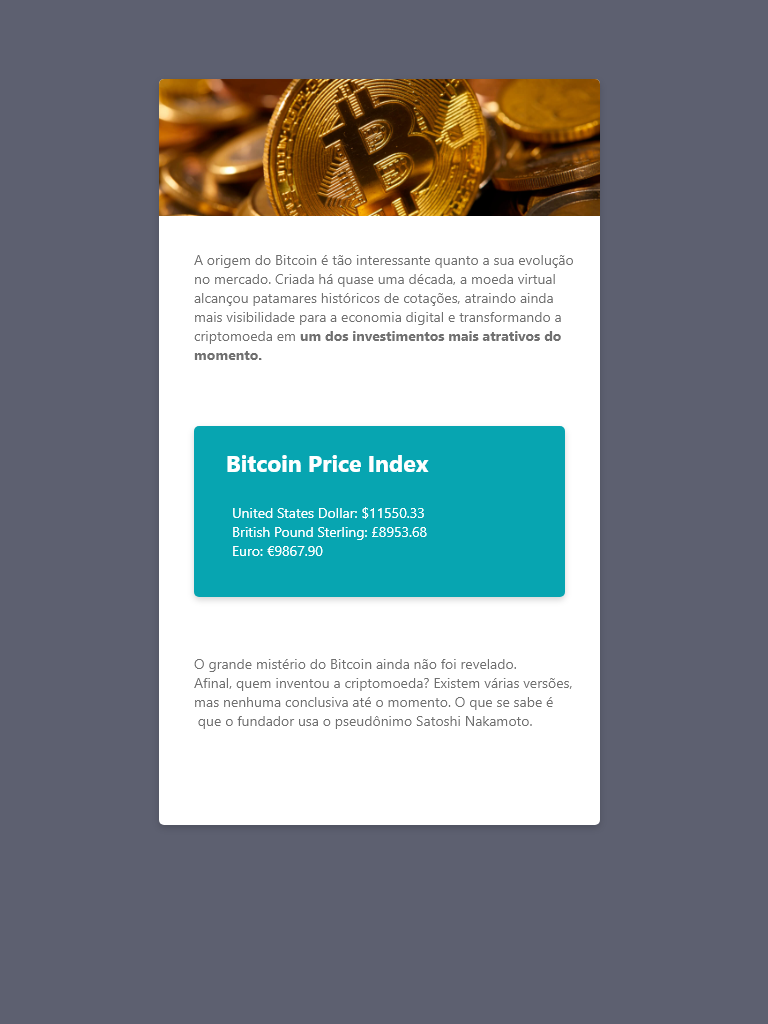
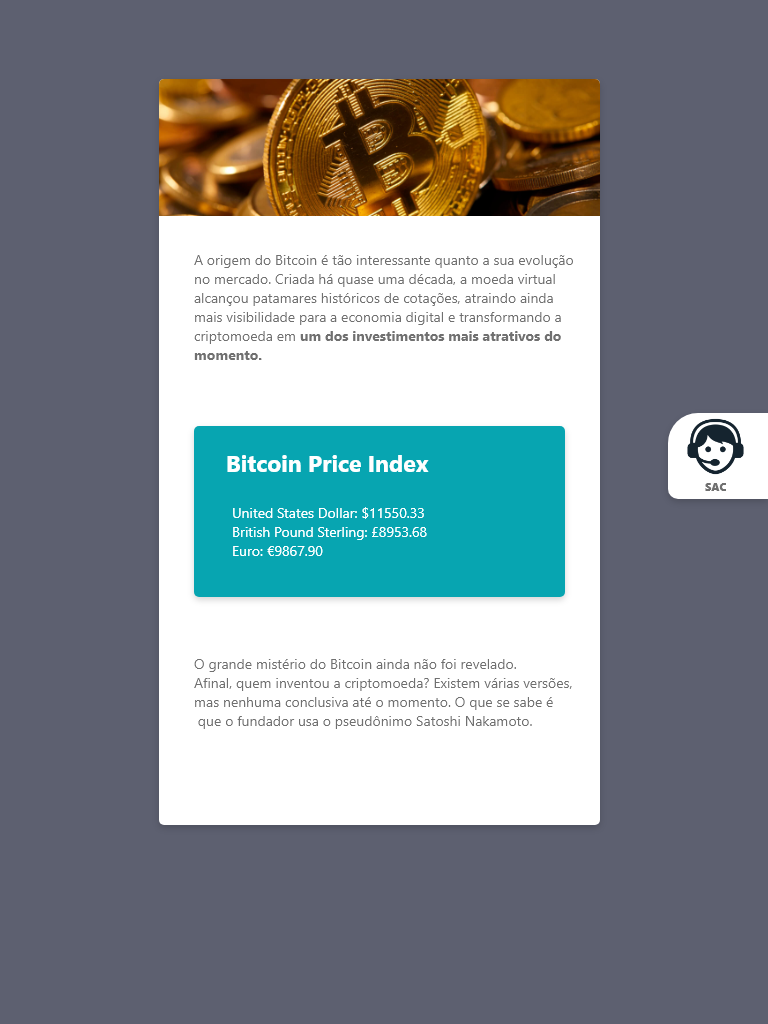
Ajustes em imagem

Changed region(s): [[0.8438, 0.4062, 1.0, 0.5]]

diff --git a/README.md b/README.md
@@ -57,6 +57,8 @@ Imagem: https://blog.bitcointrade.com.br/wp-content/uploads/2018/06/surpreendase
 
 Os textos podem ser COPIADOS por aqui: https://blog.bitcointrade.com.br/surpreenda-se-com-a-origem-do-bitcoin-a-moeda-virtual/
 
+link para imagem do SAC: https://assets.izap.com.br/clarearacessorios.com.br/uploads/img5b9aaaebbf94f.png
+
 
 
 
